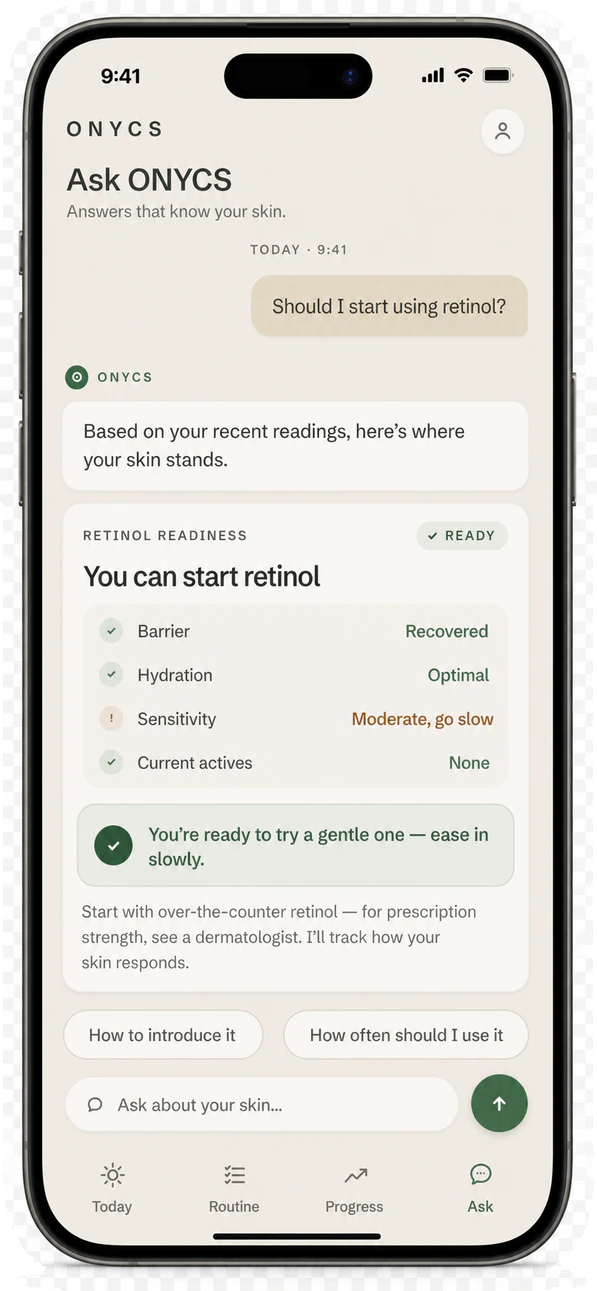
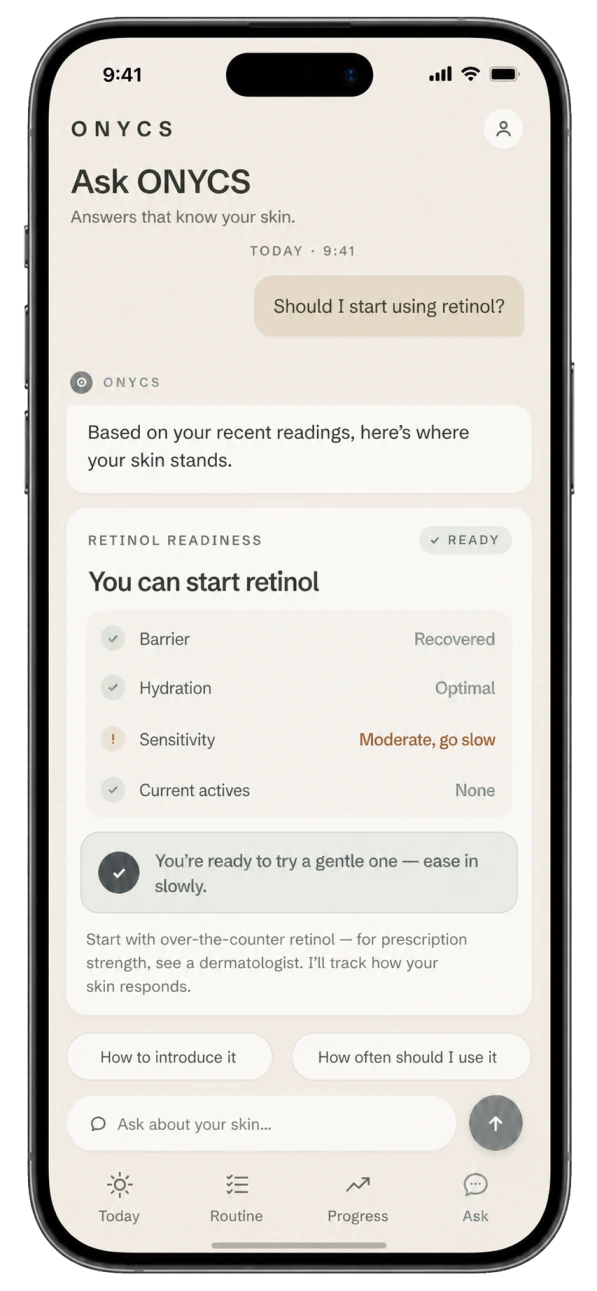
Fix advisor phone transparency

diff --git a/index.html b/index.html
@@ -428,7 +428,7 @@
           </div>
           <div class="advisor-phone">
             <img
-              src="assets/ask-onycs.webp?v=20260727-screens"
+              src="assets/ask-onycs.webp?v=20260727-advisor2"
               alt="Ask ONYCS personalized skincare advisor"
               width="597"
               height="1291"
